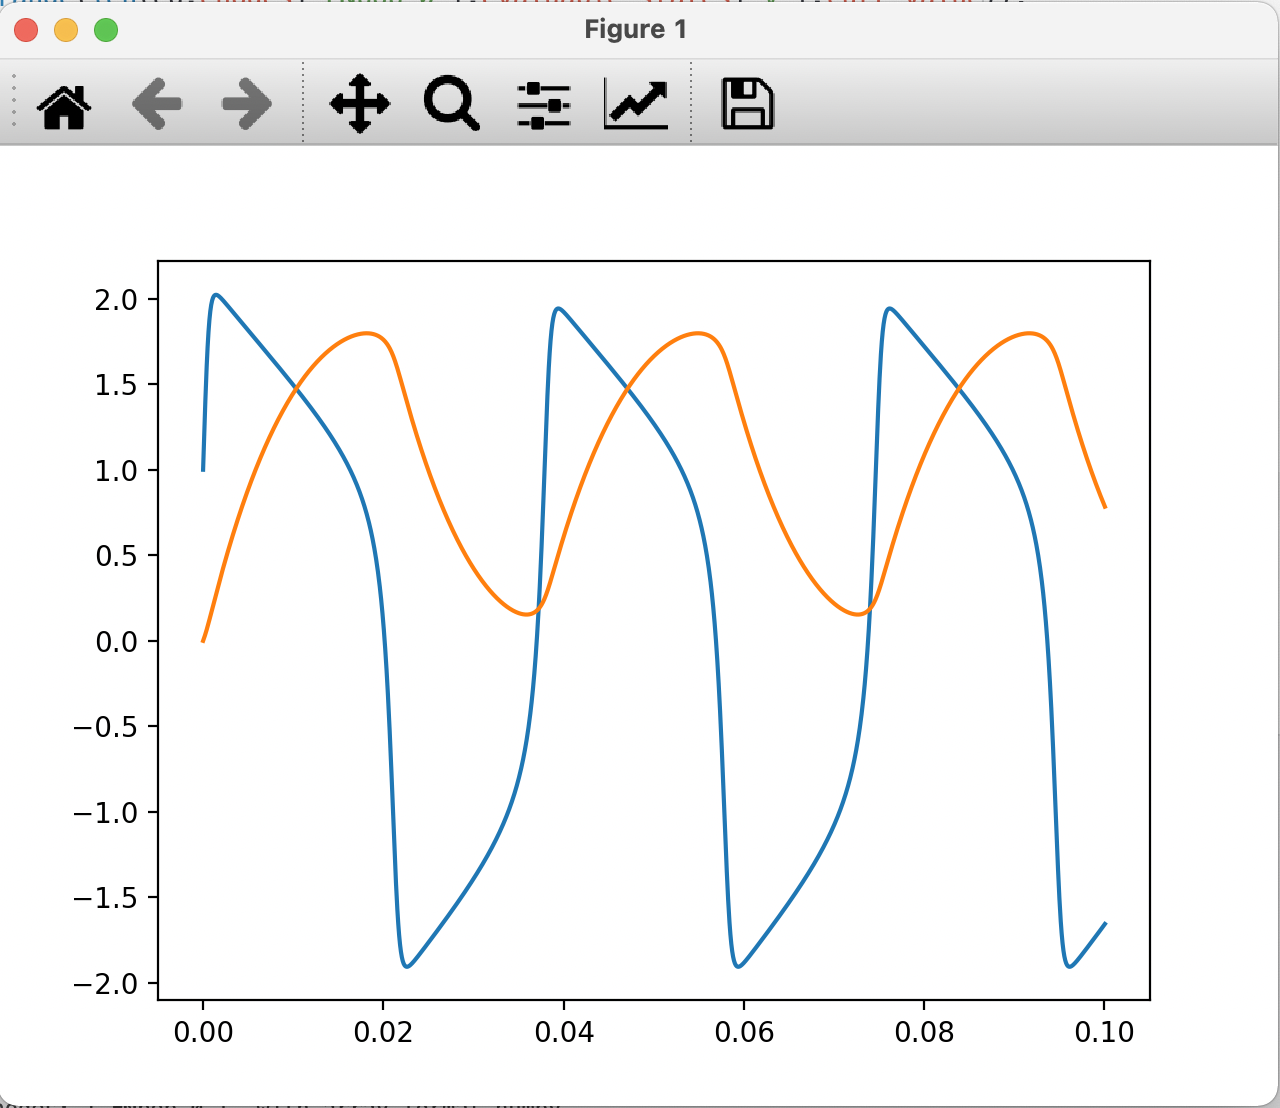
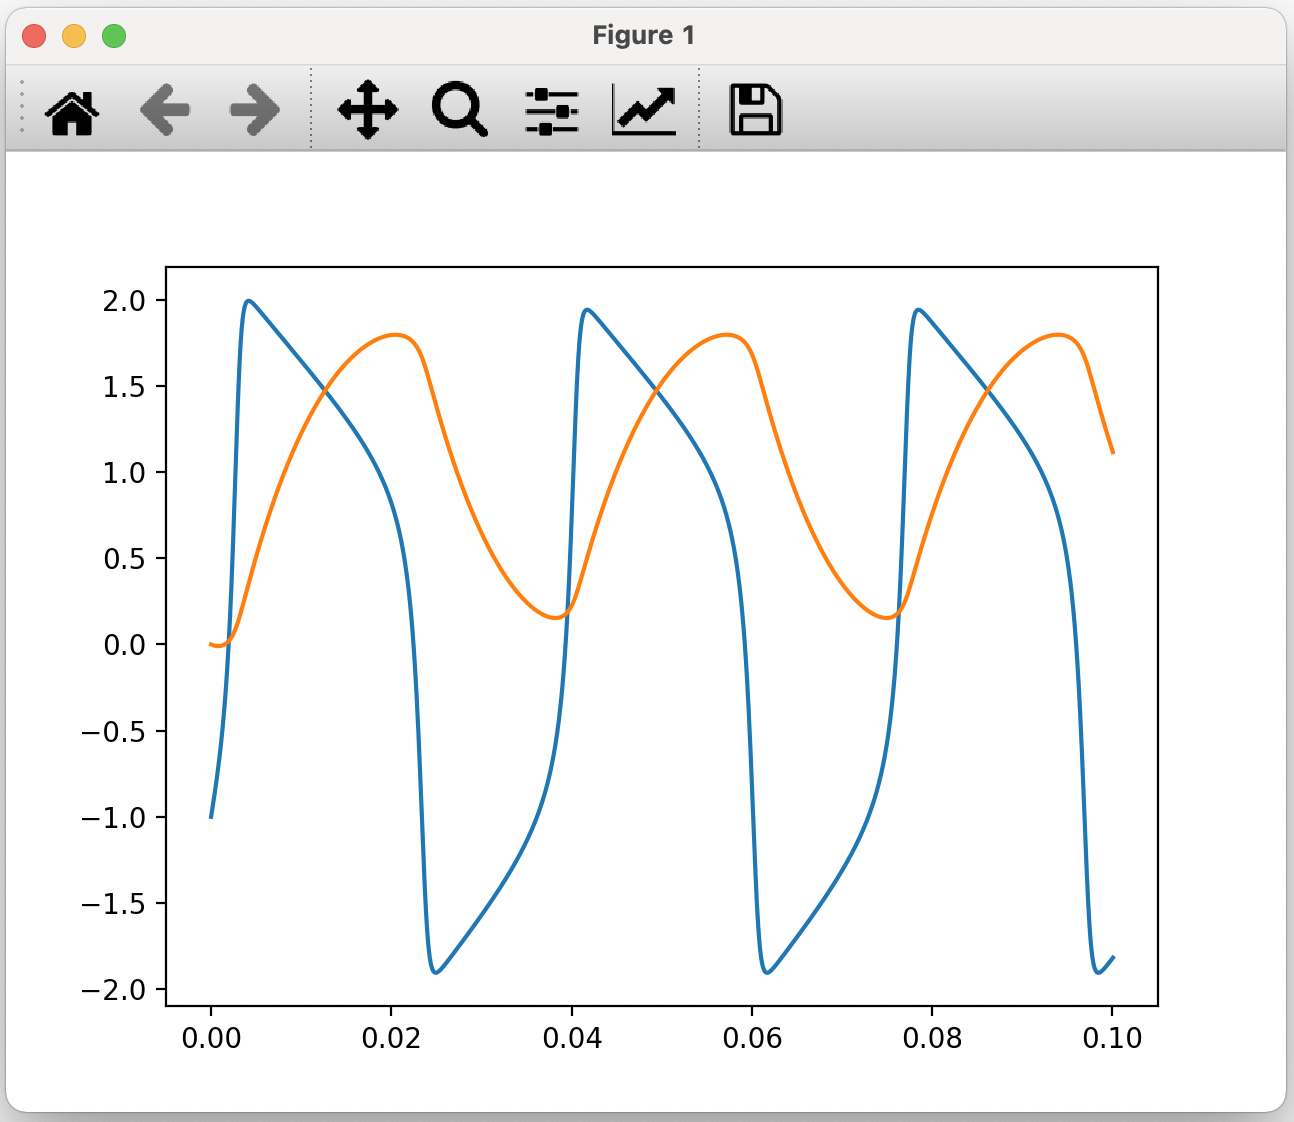
Same init for mdf example as nml

diff --git a/examples/NeuroML/FNrun.py b/examples/NeuroML/FNrun.py
@@ -15,7 +15,7 @@ def execute(multi=False):
     if not multi:
 
         fn_node = mod_graph.nodes[0]
-        fn_node.parameters['initial_v']=[1.]
+        fn_node.parameters['initial_v']=[-1.]
         fn_node.parameters['initial_w']=[0.]
 
     else:
